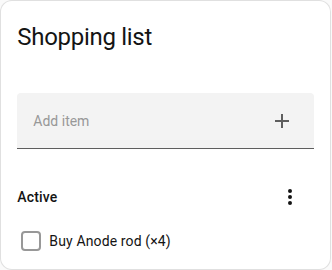
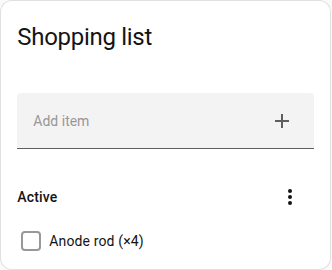
Screenshots of the Shopping list card with the line style and preview
Claude-Session: https://claude.ai/code/session_014Nc9WSXKLZFtLbcnDZxAZa

Changed region(s): [[0.1506, 0.8593, 0.512, 0.9185]]

diff --git a/tests/e2e/screenshots.capture.ts b/tests/e2e/screenshots.capture.ts
@@ -1443,9 +1443,10 @@ test('capture Home Keeper panel + usage screenshots', async ({ page }) => {
   await shoppingSettings.scrollIntoViewIfNeeded();
   await shoppingSettings.getByText('Product only', { exact: true }).click();
   await expect(shoppingSettings.locator('.hk-shopping-preview-title').first()).toHaveText(
-    'Anode rod',
+    /^Anode rod/,
     { timeout: 10_000 },
   );
+  await expect(shoppingSettings.locator('.hk-shopping-preview')).not.toContainText('Buy');
   await expect(shoppingSettings.locator('.hk-settings-value')).toContainText(
     'product names only',
   );
